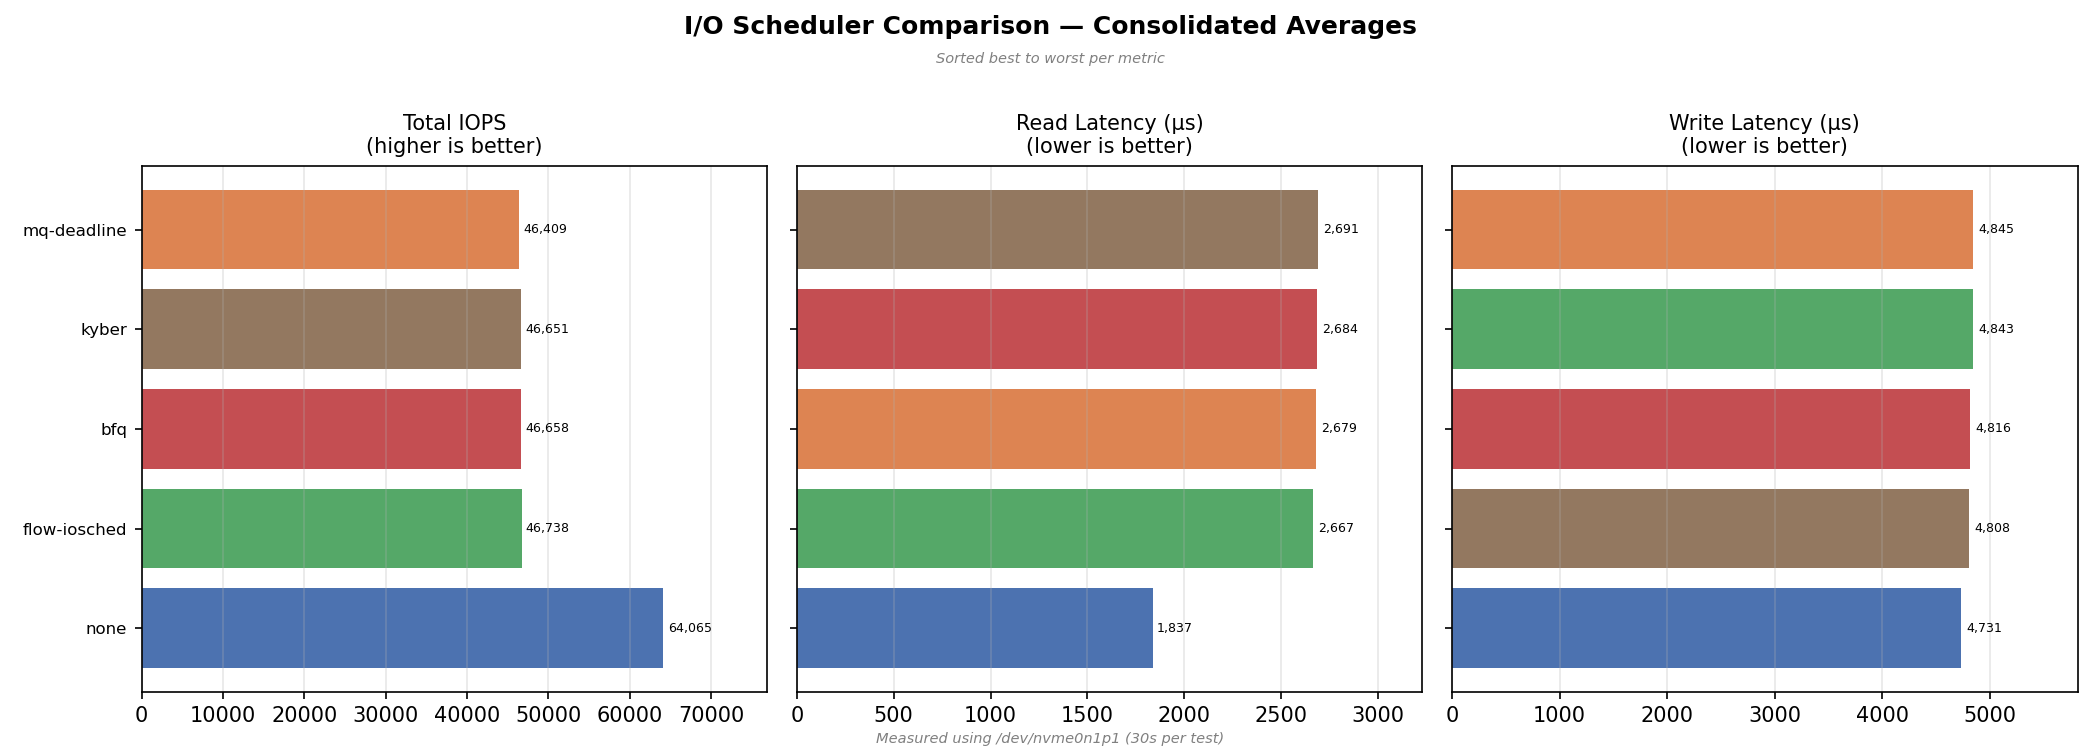
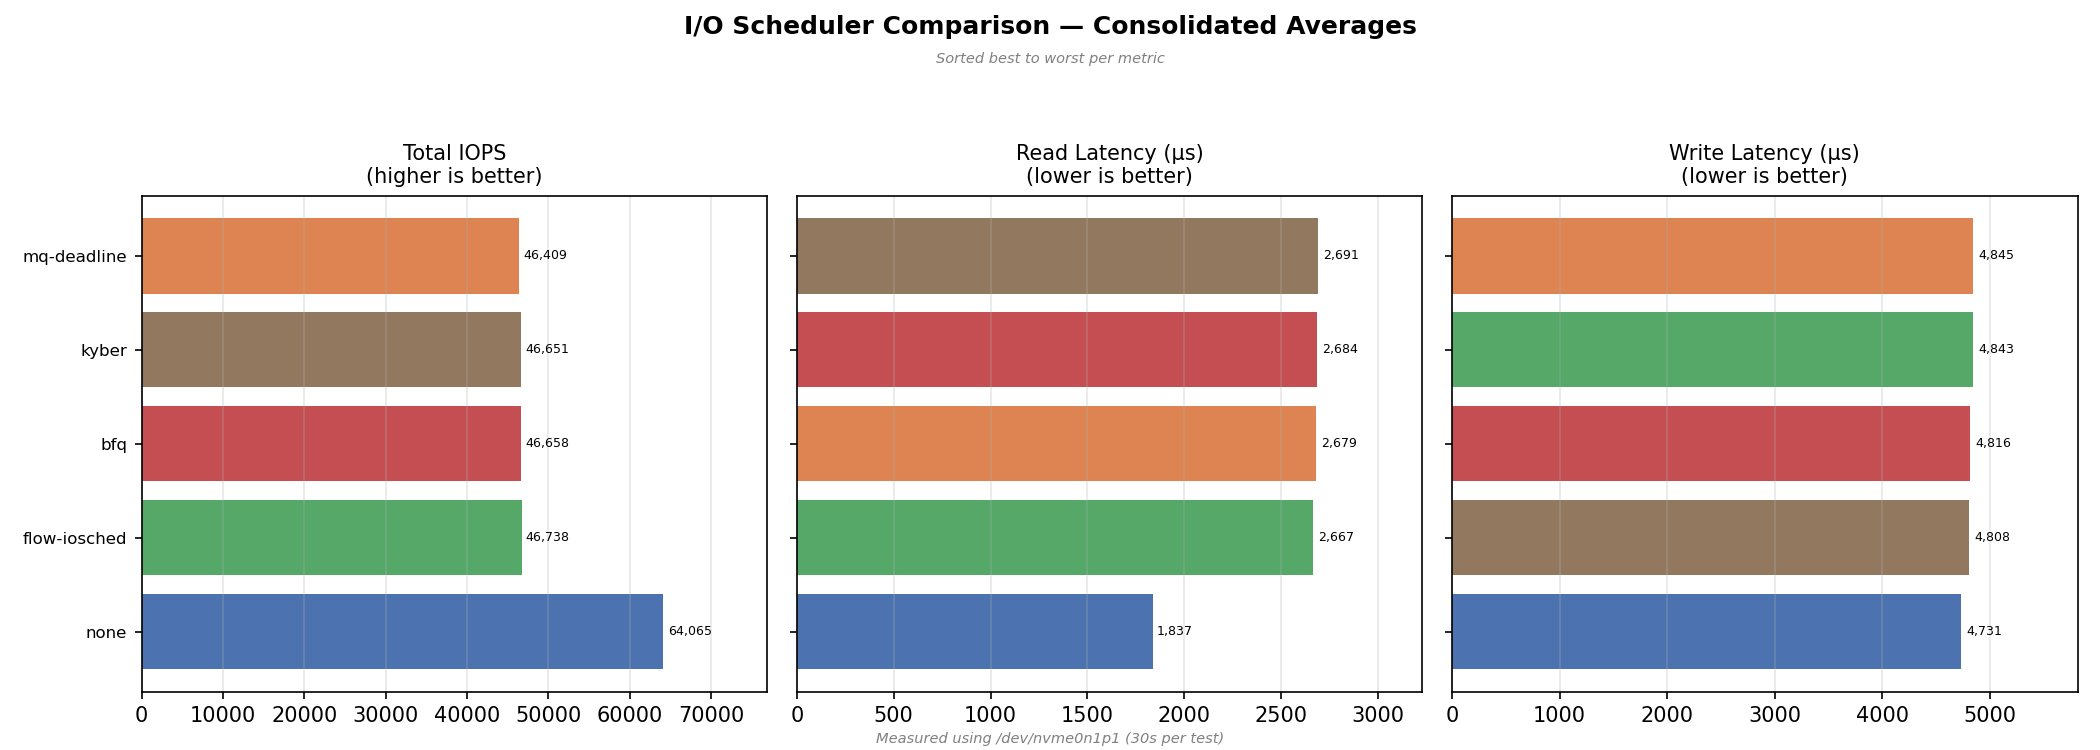
plot: lower axes top to 0.90 so subtitle sits outside the black box

diff --git a/bench-tests/plot-results.py b/bench-tests/plot-results.py
@@ -158,7 +158,7 @@ ax.set_xticklabels(wl_labels)
 ax.legend(loc="upper center", bbox_to_anchor=(0.5, -0.08), ncol=len(schedulers), fontsize=7)
 ax.grid(axis="y", alpha=0.3)
 ax.margins(x=0.15)
-fig.subplots_adjust(top=0.94, bottom=0.16, right=0.92)
+fig.subplots_adjust(top=0.90, bottom=0.16, right=0.92)
 add_measurement_label(fig)
 fig.savefig(f"{CHARTS}/iops.png", dpi=150)
 plt.close(fig)
@@ -208,7 +208,7 @@ ax.legend(loc="upper center", bbox_to_anchor=(0.5, -0.08), ncol=len(schedulers),
 ax.grid(axis="y", alpha=0.3)
 ax.set_yscale("log")
 ax.margins(x=0.15)
-fig.subplots_adjust(top=0.94, bottom=0.16, right=0.92)
+fig.subplots_adjust(top=0.90, bottom=0.16, right=0.92)
 add_measurement_label(fig)
 fig.savefig(f"{CHARTS}/latency.png", dpi=150)
 plt.close(fig)
@@ -237,7 +237,7 @@ for wi, wl in enumerate(workloads):
                 fmt_val(val), va="center", fontsize=7)
 fig.suptitle("Per-Workload IOPS", fontsize=12, fontweight="bold")
 add_sorting_note(fig, "Sorted best to worst per workload (higher is better)")
-fig.tight_layout(rect=(0, 0, 1, 0.94))
+fig.tight_layout(rect=(0, 0, 1, 0.90))
 add_measurement_label(fig)
 fig.savefig(f"{CHARTS}/per_workload.png", dpi=150)
 plt.close(fig)
@@ -301,7 +301,7 @@ for ax_i, (title, direction, extractor, qualifies) in enumerate(metrics):
 fig.suptitle("I/O Scheduler Comparison — Consolidated Averages",
              fontsize=12, fontweight="bold")
 add_sorting_note(fig, "Sorted best to worst per metric")
-fig.tight_layout(rect=(0, 0, 1, 0.94))
+fig.tight_layout(rect=(0, 0, 1, 0.90))
 add_measurement_label(fig)
 fig.savefig(f"{CHARTS}/comparison.png", dpi=150)
 plt.close(fig)
